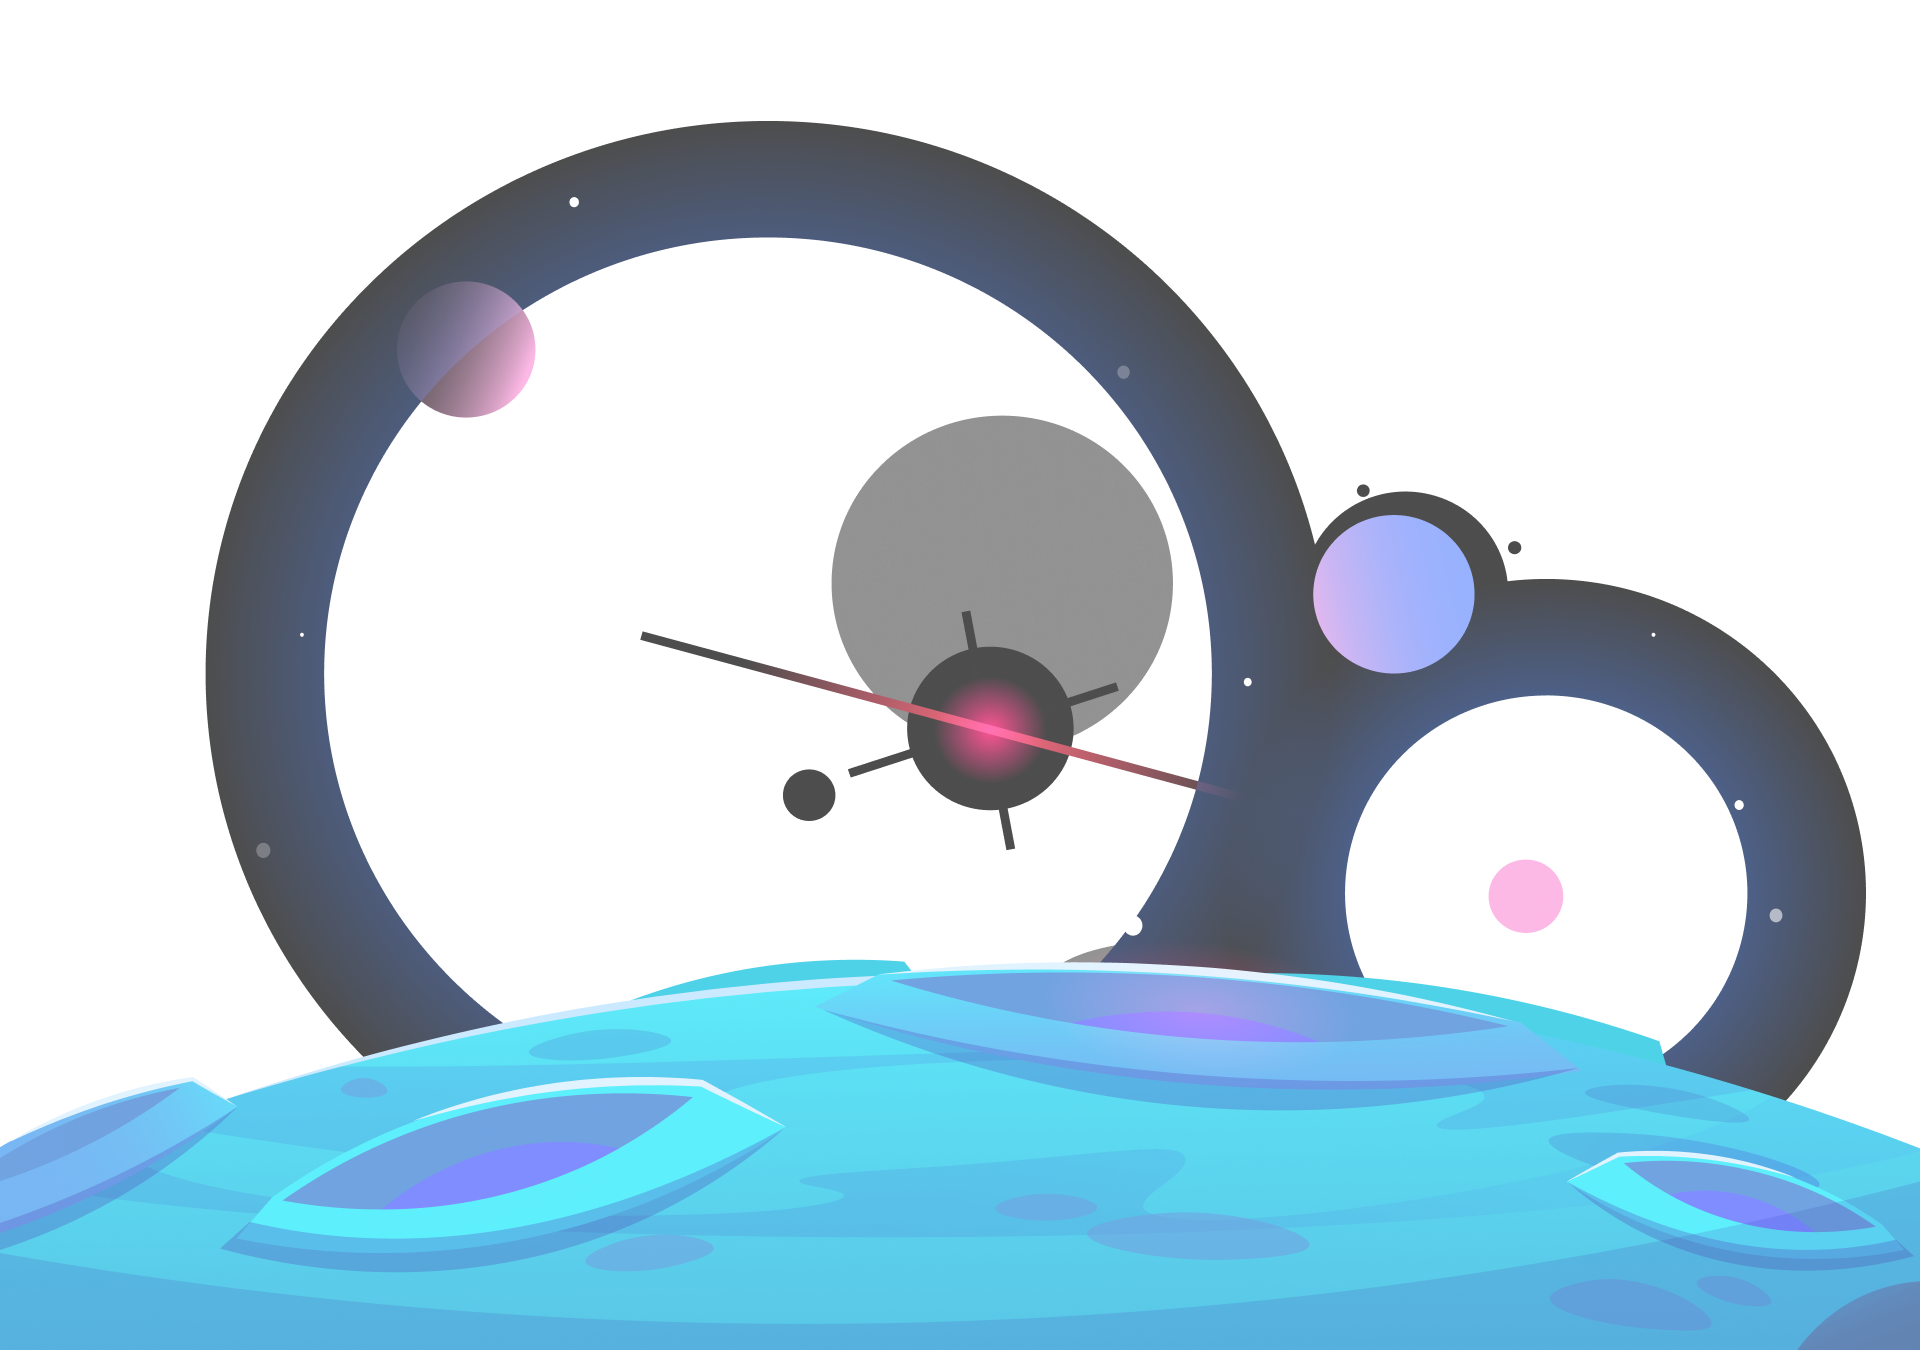
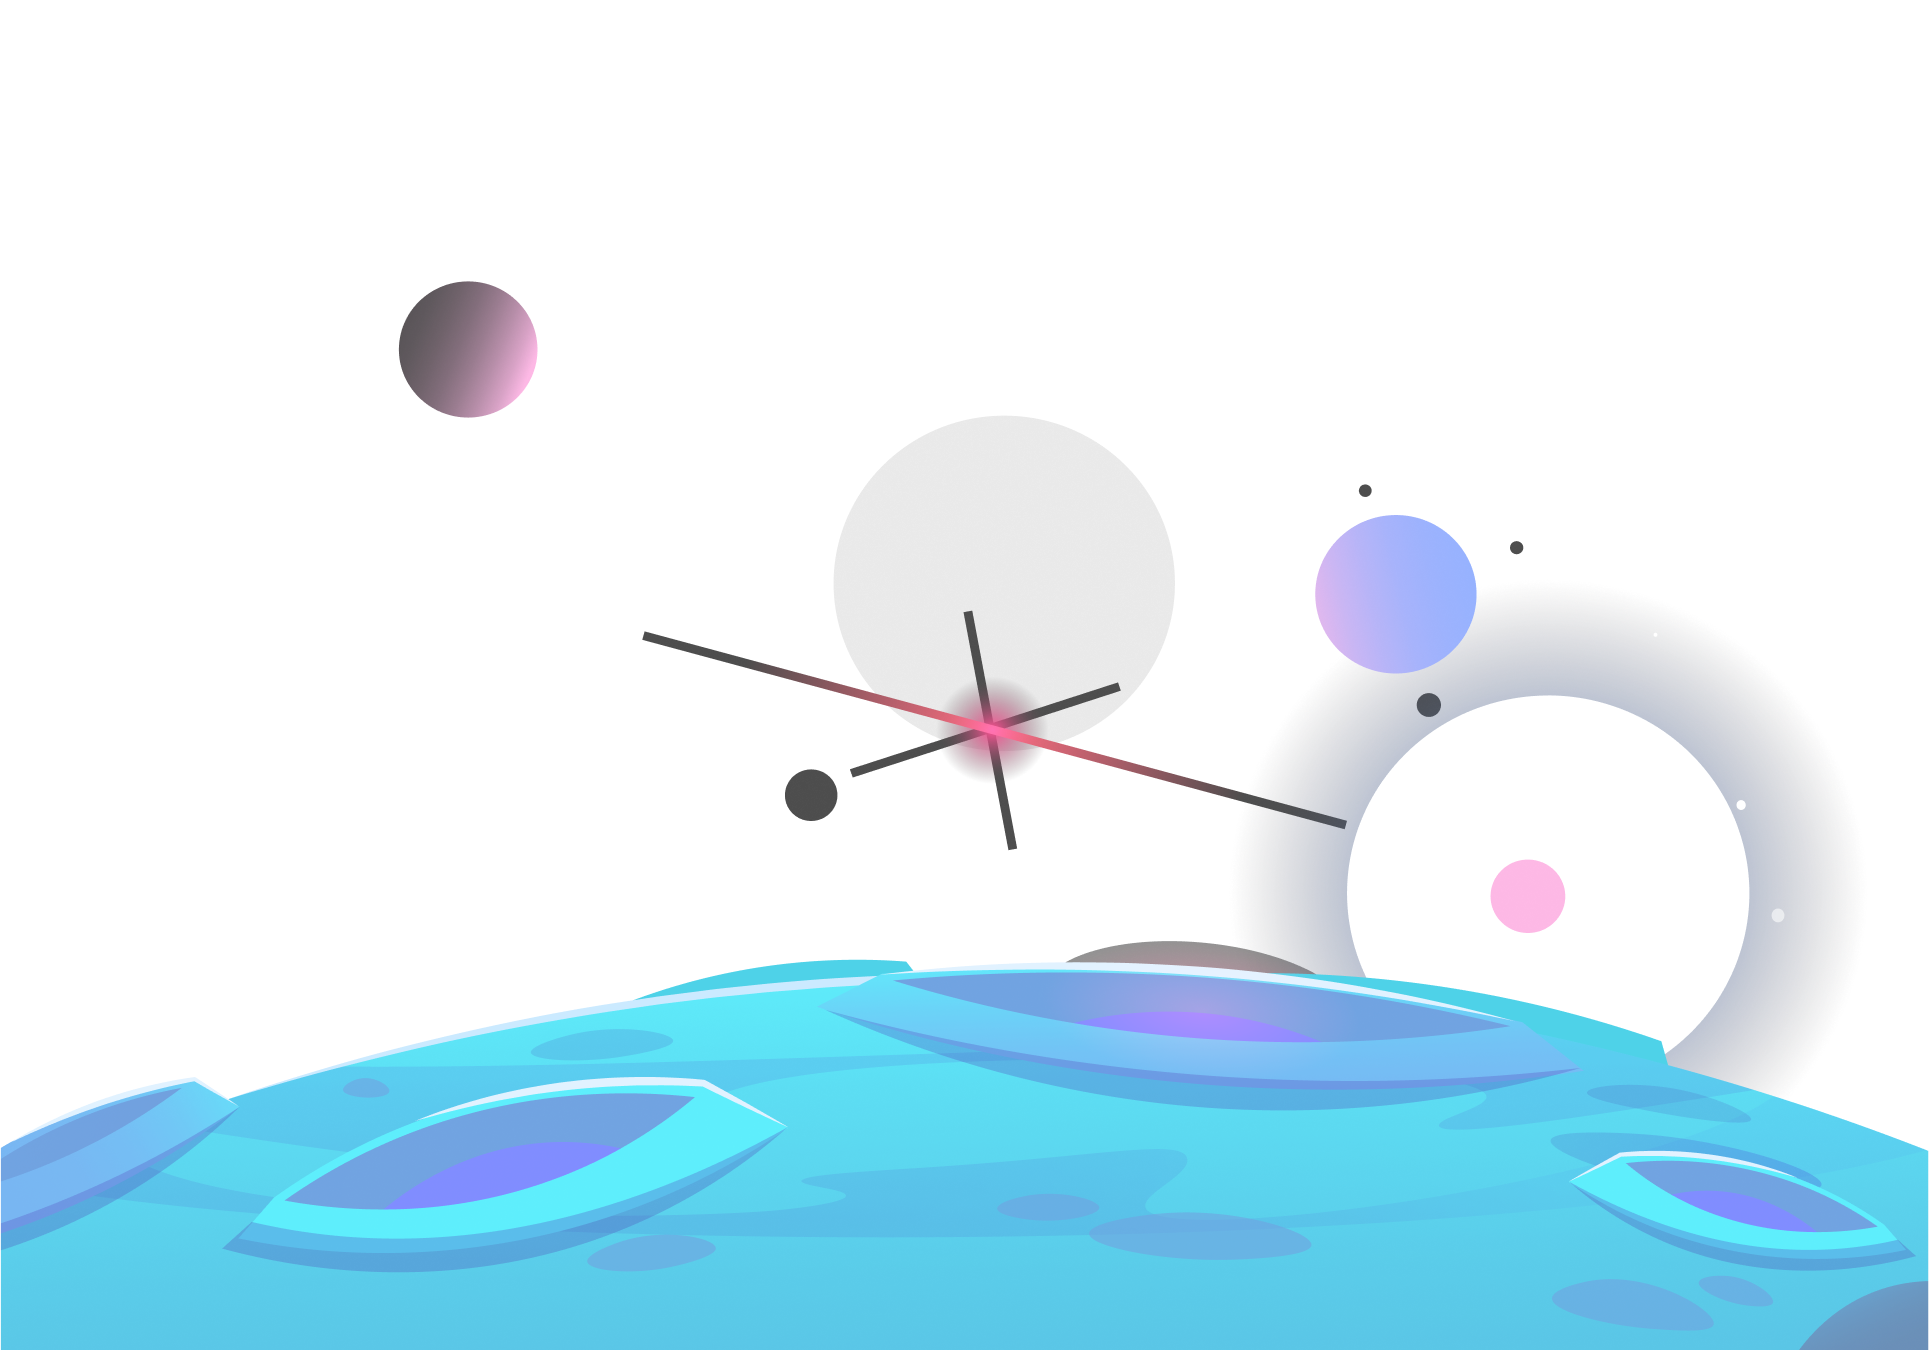
Fondos

Changed region(s): [[0.0938, 0.0622, 0.9688, 0.8711], [0.875, 0.8711, 1.0, 0.9333], [0.8125, 0.84, 0.8438, 0.9022]]

diff --git a/src/app/about/about.component.css b/src/app/about/about.component.css
@@ -1,72 +1,80 @@
-*{
-    font-family: Rubik;
-    color: aliceblue;
+* {
+  font-family: Rubik;
+  color: aliceblue;
 }
-p{
-    font-size: 1vw;
-}
-.divabout{
-    width: 65vw;
-    height: 70vh;
-    margin: 0 auto;
-    border: solid 1px;
-    border-image: linear-gradient(to right, #e808d1 0%, #0fd8fc 100%) 1;
-    border-radius: 15px;
-}
-.imga{
-    width:25vw;
-    height:65vh;
-}
-.imgabout{
-    text-align: center;
-    margin: 1vw 1vw 1vw 1vw;
-}
-.textabout{
-    margin: 0vw 6vw 0vw 5vw;    
-}
-#firsttextbox{
-    font-size: 0.8vw;
-}
-#secondtextbox{
-    font-size: 1vw;
-}
-.blackbox{
-    background: linear-gradient(0deg, #262840, #262840),
-    linear-gradient(0deg, #060714, #060714),
-    linear-gradient(187.96deg, rgba(255, 255, 255, 0.07) 0%, rgba(255, 255, 255, 0) 93.86%);
-    height: 20vh;
-    width: 27vw;
-    border-radius: 30px;
-}
-#textgray{
-    color: #7780A1;
-}
-.divbox{
-    margin-left: 2vw;
-    font-size: 1vw;
-}
-.buttonbox{    
-    display: flex;
-    justify-content: center;
-    margin-top: 2vh;
-}
-button{
-    background: linear-gradient(91.06deg, #FF1CF7 2.26%, #00F0FF 100%);
-    width: 25vw;
-    height: 5vh;
-    border-radius: 50px;
-}
-#price{
-    font-size: 2vw;
-}
-#butShare{
-    position: absolute;
-    width: 3vw;
-    height: 6vh;
-    margin-left: 20.25%;
-    margin-top: 0.5%;
+p {
+  font-size: 1vw;
 }
 
-.about{
-    display: flex;
+.about {
+  margin-top: 2vw;
+}
+.divabout {
+  width: 65vw;
+  height: 70vh;
+  margin: 0 auto;
+  border: solid 1px;
+  border-image: linear-gradient(to right, #e808d1 0%, #0fd8fc 100%) 1;
+  border-radius: 15px;
+}
+.imga {
+  width: 25vw;
+  height: 65vh;
+}
+.imgabout {
+  text-align: center;
+  margin: 1vw 1vw 1vw 1vw;
+}
+.textabout {
+  margin: 0vw 6vw 0vw 5vw;
+}
+#firsttextbox {
+  font-size: 0.8vw;
+}
+#secondtextbox {
+  font-size: 1vw;
+}
+.blackbox {
+  background: linear-gradient(0deg, #262840, #262840),
+    linear-gradient(0deg, #060714, #060714),
+    linear-gradient(
+      187.96deg,
+      rgba(255, 255, 255, 0.07) 0%,
+      rgba(255, 255, 255, 0) 93.86%
+    );
+  height: 20vh;
+  width: 27vw;
+  border-radius: 30px;
+}
+#textgray {
+  color: #7780a1;
+}
+.divbox {
+  margin-left: 2vw;
+  font-size: 1vw;
+}
+.buttonbox {
+  display: flex;
+  justify-content: center;
+  margin-top: 2vh;
+}
+button {
+  background: linear-gradient(91.06deg, #ff1cf7 2.26%, #00f0ff 100%);
+  width: 25vw;
+  height: 5vh;
+  border-radius: 50px;
+}
+#price {
+  font-size: 2vw;
+}
+#butShare {
+  position: absolute;
+  width: 3vw;
+  height: 6vh;
+  margin-left: 20.25%;
+  margin-top: 0.5%;
+}
+
+.about {
+  display: flex;
 }

diff --git a/src/app/app.component.css b/src/app/app.component.css
@@ -2,7 +2,6 @@
   font-family: "Rubik";
   src: url(../assets/Rubik-Regular.ttf);
 }
-
 /*NavBar */
 nav ul{
   display: flex;
@@ -81,14 +80,13 @@ header{
 
 .page-content {
   /*Width to horizontal scroll bar*/
-  width: 40vw;
-  height: 98vw;
+  width: 41vw;
+  height: 100vw;
   transform: rotate(-90deg) translateX(-78vh) translateY(-10px);
   transform-origin: top left;
   overflow-y: scroll;
   overflow-x: hidden;
   position: absolute;
-
   scrollbar-width: none;
   -ms-overflow-style: none;
   -webkit-scrollbar-thumb: none;
@@ -101,7 +99,7 @@ header{
   transform: rotate(90deg) translateY(-80vh) translateX(0px);
   transform-origin: top left;
   overflow-y: hidden;
-  width: 800vw;
+  width: 500vw;
   height: 100vh;
 }
 
@@ -114,3 +112,33 @@ header{
 .slide two{
   display: flex;
 }
+
+.one{
+  background-image: url(/assets/LooperBG.png);
+  background-size: 100vw 80vh;
+  background-repeat: no-repeat;
+}
+
+.two{
+  background-image: url(/assets/Estrellas.png);
+  background-size: 100vw 80vh;
+  background-repeat: no-repeat;
+}
+
+.three{
+  background-image: url(/assets/Estrellas.png);
+  background-size: 100vw 80vh;
+  background-repeat: no-repeat;
+}
+
+.four{
+  background-image: url(/assets/Espacio.png);
+  background-size: 100vw 80vh;
+  background-repeat: no-repeat;
+}
+.five{
+  background-image: url(/assets/Espacio2.png);
+  background-size: 100vw 80vh;
+  background-repeat: no-repeat;
+}
+

diff --git a/src/app/app.component.html b/src/app/app.component.html
@@ -5,7 +5,7 @@
         <li><a href="">Home</a></li>
         <li><a href="">VRK</a></li>
         <li><a href="#NFT">NFT</a></li>
-        <li><a href="">Benefits</a></li>
+        <li><a href="#benefits">Benefits</a></li>
         <li><a href="#types">Types</a></li>
         <li><a href="">Gallery</a></li>
         <li><a href="">Roadmap</a></li>

diff --git a/src/app/benefits/benefits.component.html b/src/app/benefits/benefits.component.html
@@ -1,4 +1,4 @@
-<div class="benefits">
+<div class="benefits" id="benefits">
   <div id="title">
     <p>Why we are the best?</p>
     <h2>Benefits you can't miss</h2>
